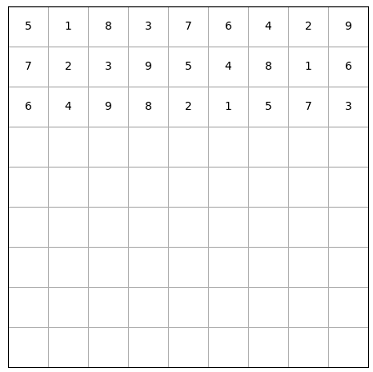
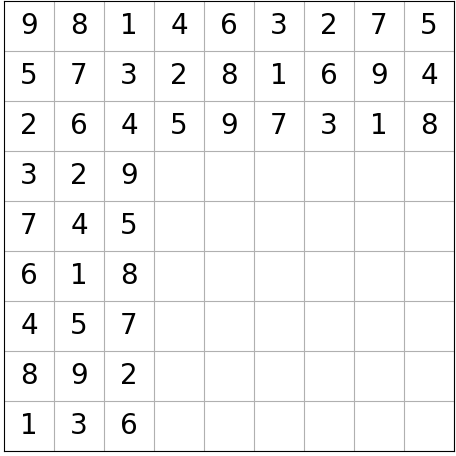
updated font size of image

Changed region(s): [[0.0, 0.0, 1.0, 1.0], [0.5308, 0.414, 0.5603, 0.4731]]

diff --git a/sudoku.py b/sudoku.py
@@ -83,7 +83,7 @@ def board_to_image(board, n):
     for y in range(n): # placing the values on the plot in a grid shape
         for x in range(n):
             val = " " if  temp_board[y][x] == 0 else temp_board[y][x]
-            ax.text(y, x,val, ha="center", va="center", color="k")
+            ax.text(x, y,val, ha="center", va="center", color="k", fontsize=20)
     fig.tight_layout()
     plt.grid(True)
     plt.show()
@@ -208,6 +208,7 @@ def create_sudoku_board(root_n, n, difficulty, ran = False):
         fill_block(board, 0, 0 , root_n, random.sample(list(range(1,n+1)), n))#shuffles 1~n and fill the top-left block
         board = transpose_matrix(fill_top_block(board, root_n, n), n)
         board = transpose_matrix(fill_top_block(board, root_n, n), n)
+        board_to_image(board, n)
         global solved_board, find, limit, sol_num, print_bool
         find, sol_num, limit, print_bool = True, 0, 1, False
         reccursive_sudoku_solver(board, n, root_n) # fill rest of the entries with valid random values
@@ -234,6 +235,7 @@ def main():
     # modifying global variables, because we're now in the solving stage
     find, sol_num, limit, solved_board, print_bool = True, 0, 100, None, True
     reccursive_sudoku_solver(board, root_n**2, root_n)
+    board_to_image(solved_board, root_n**2)
     #heuristic_sudoku_solver(board, 9, root_n)
 
 if __name__ == "__main__":
